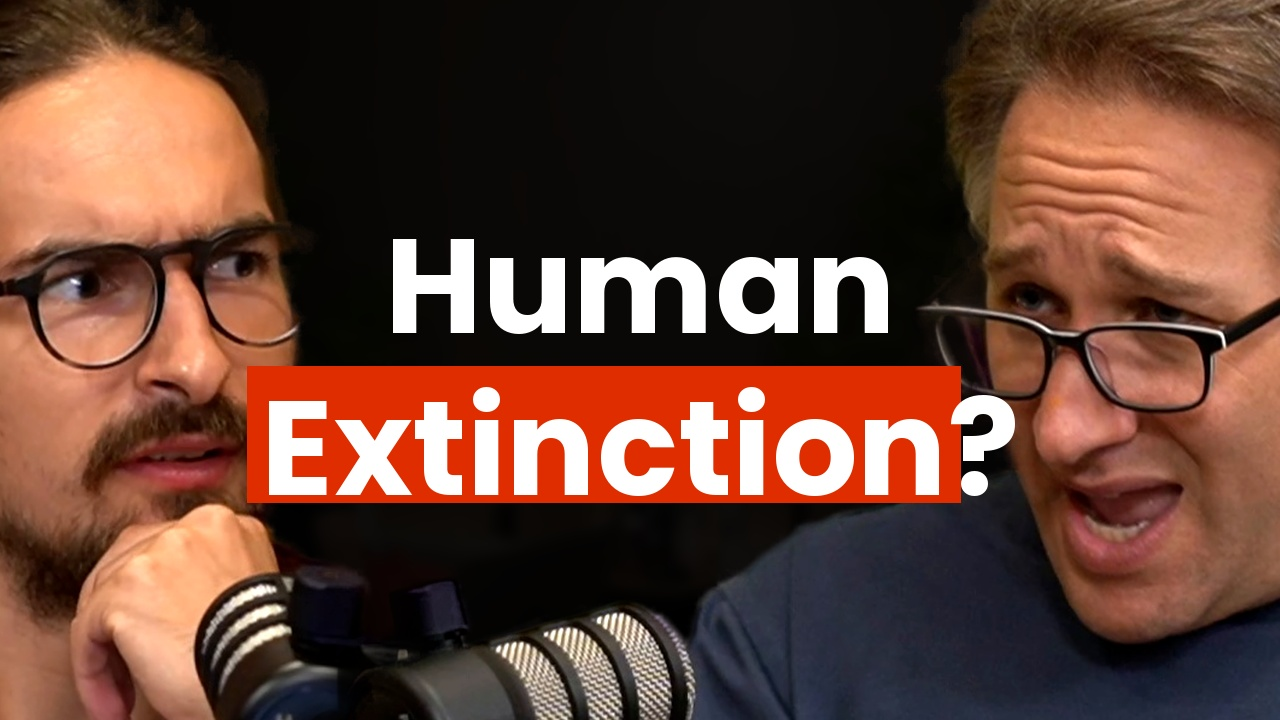
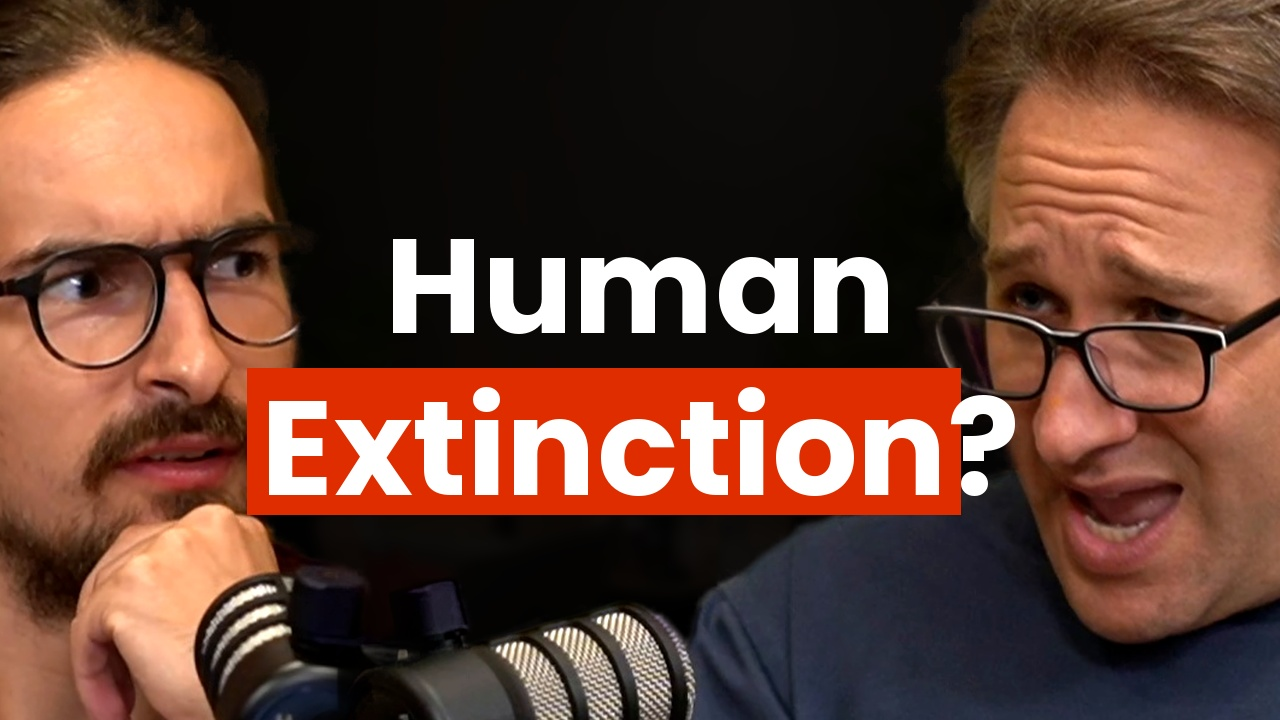
Human Extinction: dritte Variante, und der Kasten sitzt jetzt gleichmaessig
Seine Korrektur: der Balken sass nicht gleichmaessig um Extinction. Zwei
Fehler, beide behoben.

Waagerecht hatte ich die Vorschubbreite des Wortes genommen statt der
Tintenbreite. Die Vorschubbreite enthaelt den Seitenabstand der Schrift,
dadurch stand rechts mehr Luft als links.

Senkrecht war der Kasten auf die Versalhoehe zentriert. Woerter mit
Oberlaengen - das t und der i-Punkt in Extinction - ragen darueber hinaus,
also stand oben mehr Luft als unten. Der Kasten sitzt jetzt auf dem
Tintenband von der Oberkante bis zur Grundlinie. Unterlaengen haengen
heraus, so wie das y von Patriarchy in frNOUgxE0IM; das g von Orangutans
macht es jetzt genauso.

Nachgemessen: links 22, rechts 22, oben 19, unten 19 Pixel.

Variante C ergaenzt mit Aaronsons Mimik aus AI Just Broke Math (2504 s),
die er eigentlich gemeint hatte. A und B bleiben wie sie waren. Die vier
Fassungen aus Runde 3 mit derselben Korrektur neu gerechnet.

Changed region(s): [[0.1875, 0.6722, 0.75, 0.7333], [0.2188, 0.4889, 0.75, 0.5194]]

diff --git a/video/thumbnail_bau.py b/video/thumbnail_bau.py
@@ -21,6 +21,8 @@ KASTEN = (0xDF, 0x2D, 0x00)   # aus seinem Canva-File, nicht aus dem JPEG gescha
 ZEILENHOEHE = 1.11            # Canva lineHeight, der haeufigste Wert in seinem File
 KASTEN_H = 1.01               # Kastenhoehe / Schriftgrad, Median seiner sieben Kaesten
 KASTEN_PAD = 0.10             # seitliches Polster / Schriftgrad, ebenda
+KASTEN_PAD_Y = 0.14           # Polster oben/unten / Schriftgrad, aus denselben
+                              # fuenf Kaesten rueckgerechnet
 CAP = 0.700          # Versalhoehe von Poppins in em, gemessen
 HIER = os.path.dirname(os.path.abspath(__file__))
 SCHRIFT = os.path.join(HIER, 'marke', 'Poppins-Bold.ttf')
@@ -177,18 +179,29 @@ def satz(bild, zeilen, kasten, mitte_x=640, mitte_y=360,
         x = mitte_x - breit / 2
         oben = y + i * schritt
         if i == kasten_index:
-            kh = grad * KASTEN_H
+            # Der Kasten sitzt auf dem Tintenband des Wortes: Oberkante der
+            # Tinte bis Grundlinie, rundum gleich viel Luft. Nicht bis zur
+            # Unterlaenge — in seinen Thumbnails haengt die heraus, siehe das
+            # y von „Patriarchy" in frNOUgxE0IM.
+            ursprung_y = oben - ty
+            grundlinie = ursprung_y + f.getmetrics()[0]
             kp = grad * KASTEN_PAD
-            ky = oben + cap / 2 - kh / 2
+            kpy = grad * KASTEN_PAD_Y
             if kasten_teil:
+                # Tintenmass, nicht Vorschubmass. `textlength` gibt die
+                # Vorschubbreite inklusive Seitenabstand; nimmt man die, steht
+                # rechts mehr Luft als links und der Kasten sitzt schief.
                 stelle = text.index(kasten_teil)
                 vor = d.textlength(text[:stelle], font=f)
-                teil_br = d.textlength(kasten_teil, font=f)
-                kx0 = x - lx + vor
-                d.rectangle([kx0 - kp, ky, kx0 + teil_br + kp, ky + kh],
-                            fill=KASTEN)
+                tl, tt, tr, _ = d.textbbox((0, 0), kasten_teil, font=f)
+                ursprung_x = x - lx + vor
+                kx0, kx1 = ursprung_x + tl, ursprung_x + tr
+                ky0 = ursprung_y + tt
             else:
-                d.rectangle([x - kp, ky, x + breit + kp, ky + kh], fill=KASTEN)
+                kx0, kx1 = x, x + breit
+                ky0 = oben
+            d.rectangle([kx0 - kp, ky0 - kpy, kx1 + kp, grundlinie + kpy],
+                        fill=KASTEN)
         d.text((x - lx, oben - ty), text, font=f, fill=(255, 255, 255))
     return bild, grad
 

diff --git a/video/thumbnails.md b/video/thumbnails.md
@@ -240,7 +240,29 @@ Kasten als Rechteck hinter genau einer Zeile, `cornerRounding: 0`:
 | TRAP | 163,8 | 427 | 452,0 | 12,5 | 1,218 |
 | PAST | 161,3 | 413 | 448,2 | 17,6 | 0,932 |
 
-→ **Polster seitlich ≈ 0,10 × Schriftgrad · Kastenhöhe ≈ 1,01 × Schriftgrad.**
+→ **Polster seitlich ≈ 0,10 × Schriftgrad · Polster oben/unten ≈ 0,14 ×
+Schriftgrad.**
+
+### Wie der Kasten sitzt — zweimal nachkorrigiert
+
+Er am 20.10.: *„Der Balken muss nochmal adjustiert werden, da ist mir das Wort
+Extinction noch nicht gleichmäßig."* Zu Recht, zwei Fehler:
+
+1. **Waagerecht:** ich hatte die **Vorschubbreite** des Wortes genommen
+   (`textlength`) statt der **Tintenbreite**. Die Vorschubbreite enthält den
+   Seitenabstand der Schrift — dadurch stand rechts sichtbar mehr Luft als
+   links. Richtig ist `textbbox`.
+2. **Senkrecht:** der Kasten war auf die Versalhöhe zentriert. Wörter mit
+   Oberlängen (`t`, `i`-Punkt in „Extinction") ragen darüber hinaus, also
+   stand oben mehr Luft als unten.
+
+**Die Regel, die jetzt gilt:** der Kasten sitzt auf dem **Tintenband** des
+Wortes — Oberkante der Tinte bis Grundlinie — mit gleich viel Luft rundum.
+**Unterlängen hängen heraus**, nicht hinein: das `y` von „Patriarchy" in
+`frNOUgxE0IM` ragt deutlich unter den Kasten, und das `g` von „Orangutans"
+macht es jetzt genauso.
+
+Nachgemessen am fertigen Bild: links 22, rechts 22, oben 19, unten 19 px.
 
 Nebenbei: dass Poppins-Bold-Tintenbreiten bei fünf verschiedenen Wörtern in
 fünf verschiedenen Graden durchweg ein plausibles, gleichmässiges Polster
